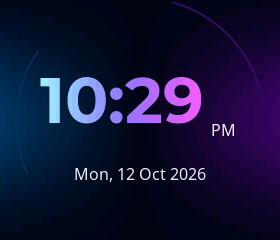
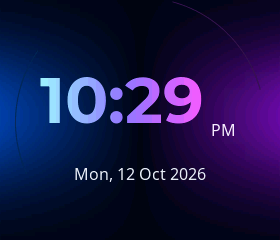
Enrich clock glows and ignore microphone capture startup noise

diff --git a/main/boards/custom-esp32-nodemcu-pocket-ai/clock_renderer.cc b/main/boards/custom-esp32-nodemcu-pocket-ai/clock_renderer.cc
@@ -73,19 +73,21 @@ void ClockRenderer::Background(lv_event_t* event) {
     auto* layer = lv_event_get_layer(event);
     lv_area_t bounds;
     lv_obj_get_coords(lv_event_get_target_obj(event), &bounds);
-    // Eight-pixel horizontal bands with two smooth horizontal gradients.
+    // Two-pixel horizontal bands with two smooth horizontal gradients.
     // Only bands intersecting this partial strip become draw tasks.
-    for (int y = 0; y < kHeight; y += 8) {
-        const float dy = (y + 4 - 119) / 82.0f;
-        const unsigned strength = static_cast<unsigned>(150 * std::exp(-dy * dy));
+    for (int y = 0; y < kHeight; y += 2) {
+        if (bounds.y1 + y > layer->_clip_area.y2 || bounds.y1 + y + 1 < layer->_clip_area.y1)
+            continue;
+        const float dy = (y + 1 - 116) / 74.0f;
+        const unsigned strength = static_cast<unsigned>(185 * std::exp(-dy * dy));
         for (int side = 0; side < 2; ++side) {
             lv_area_t area = {bounds.x1 + side * 140, bounds.y1 + y, bounds.x1 + side * 140 + 139,
-                              bounds.y1 + y + 7};
+                              bounds.y1 + y + 1};
             if (!Intersects(area, layer->_clip_area))
                 continue;
             lv_draw_rect_dsc_t rect;
             lv_draw_rect_dsc_init(&rect);
-            const auto glow = lv_color_hex(Mix(kNavy, side ? 0x6507a0 : 0x00599a, strength));
+            const auto glow = lv_color_hex(Mix(kNavy, side ? 0x920ddb : 0x0558df, strength));
             rect.bg_color = side ? lv_color_hex(kNavy) : glow;
             rect.bg_grad.dir = LV_GRAD_DIR_HOR;
             rect.bg_grad.stops_count = 2;
@@ -100,8 +102,8 @@ void ClockRenderer::Background(lv_event_t* event) {
         lv_draw_arc_dsc_init(&arc);
         arc.center = {bounds.x1 + 140, bounds.y1 + 122};
         arc.radius = 125;
-        arc.width = 2;
-        arc.color = lv_color_hex(side ? 0x3a0d61 : 0x083259);
+        arc.width = 1;
+        arc.color = lv_color_hex(side ? 0x391454 : 0x0b2b59);
         arc.start_angle = side ? 285 : 155;
         arc.end_angle = side ? 345 : 215;
         lv_draw_arc(layer, &arc);

diff --git a/main/boards/custom-esp32-nodemcu-pocket-ai/clock_state.h b/main/boards/custom-esp32-nodemcu-pocket-ai/clock_state.h
@@ -115,6 +115,7 @@ public:
     // stale capture block, or mistake listening-state entry for user speech.
     void Observe(uint64_t now, bool listening, bool playback, uint32_t rms, uint32_t frames) {
         if (playback || !listening) {
+            was_listening_ = false;
             quiet_since_ = loud_since_ = 0;
             if (playback) {
                 blocked_until_ = now + 500;
@@ -126,6 +127,19 @@ public:
         if (frames == last_frames_ || now < blocked_until_)
             return;
         last_frames_ = frames;
+        if (!was_listening_) {
+            was_listening_ = true;
+            learn_until_ = now + 650;
+            armed_ = false;
+        }
+        // Capture starts with near-zero/stale RMS before the INMP441 settles.
+        // Learn the real room level first, otherwise that startup ramp could
+        // dismiss a clock without any user speech (observed on the device).
+        if (now < learn_until_) {
+            noise_ = (noise_ * 3 + std::min<uint32_t>(rms, 5000)) / 4;
+            quiet_since_ = loud_since_ = 0;
+            return;
+        }
         const uint32_t threshold = std::max<uint32_t>(450, noise_ * 3 + 100);
         if (rms < threshold) {
             noise_ = (noise_ * 31 + std::min<uint32_t>(rms, 1500)) / 32;
@@ -147,9 +161,9 @@ public:
 
 private:
     DisplayMode mode_ = DisplayMode::FACE;
-    bool armed_ = false;
+    bool armed_ = false, was_listening_ = false;
     uint32_t noise_ = 80, last_frames_ = 0;
-    uint64_t quiet_since_ = 0, loud_since_ = 0, blocked_until_ = 0;
+    uint64_t quiet_since_ = 0, loud_since_ = 0, blocked_until_ = 0, learn_until_ = 0;
 };
 
 struct ClockZone {

diff --git a/scripts/tests/pocket_clock_test.cpp b/scripts/tests/pocket_clock_test.cpp
@@ -27,11 +27,22 @@ int main() {
         assert(state.Mode() == DisplayMode::CLOCK);
     }
     state.Show();
+    state.Observe(89999000, true, false, 70, 90);
+    state.Observe(89999700, true, false, 70, 95);
     state.Observe(90000000, true, false, 70, 100);
     state.Observe(90000250, true, false, 80, 200);
     state.Observe(90000300, true, false, 2000, 300);
     state.Observe(90000380, true, false, 70, 400);  // A short noise/click is ignored.
     assert(state.Mode() == DisplayMode::CLOCK);
+    ClockState room;
+    room.Show();
+    for (uint32_t frame = 1; frame <= 100; ++frame) {
+        room.Observe(10000 + frame * 50, true, false, frame < 4 ? 0 : 1200, frame);
+        assert(room.Mode() == DisplayMode::CLOCK);  // Capture warmup and measured room noise.
+    }
+    room.Observe(15100, true, false, 4200, 101);
+    room.Observe(15250, true, false, 4200, 102);
+    assert(room.Mode() == DisplayMode::FACE);
     state.Observe(90000400, true, false, 2000, 500);
     state.Observe(90000600, true, false, 2000, 500);  // Stale samples do not trigger.
     assert(state.Mode() == DisplayMode::CLOCK);

diff --git a/docs/pocket/CLOCK_UI.md b/docs/pocket/CLOCK_UI.md
@@ -35,7 +35,8 @@ thinking, speaking, emotional and blinking animations and opaque black root.
 The classic ESP32's `LiteAudioEngine` has no local semantic VAD or wake-word in
 this configuration. A sustained RMS gate therefore supplies the early display
 transition: 100 ms of fresh captured energy above an adaptive noise threshold,
-after 200 ms of quiet arming. Short clicks/stale buffers are ignored. Playback
+after 200 ms of quiet arming. Each capture start first learns the room level
+for 650 ms so the microphone startup ramp cannot masquerade as new speech. Short clicks/stale buffers are ignored. Playback
 state, nonempty output queues, and a 500 ms output tail suppress this gate.
 Transcribed user text is the definitive fallback. This is an energy detector,
 not a guarantee that arbitrary environmental noise can never dismiss the clock.
@@ -79,7 +80,8 @@ existing rotation/offsets and 11,200-byte partial strip. The clock creates three
 LVGL objects. The 64px Montserrat Bold numeric subset is stored in flash with
 its SIL license; regenerate it with `python scripts/pocket_clock_font.py`.
 Anti-aliased glyphs are drawn through bounded 8px cyan/purple/magenta clipping
-bands. Two background gradients and subtle arcs use ordinary LVGL primitives.
+bands. Richer blue and violet/magenta background gradients, sampled in 2px bands,
+and subtle arcs use ordinary LVGL primitives.
 There is no canvas/full-frame allocation, image decoder or runtime font load.
 
 The clock is polled at 20 Hz for microphone detection, but unchanged text
